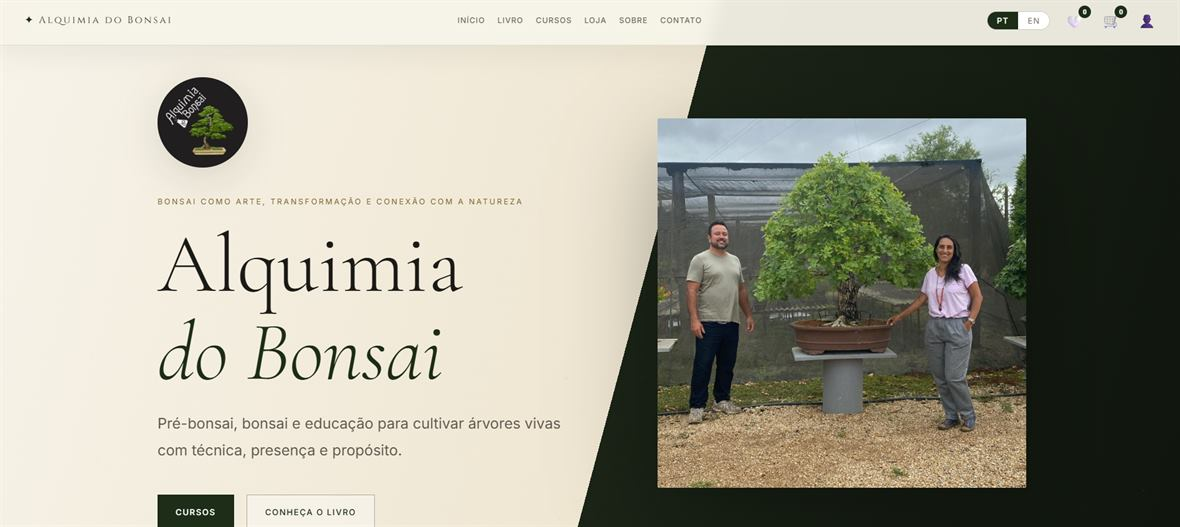
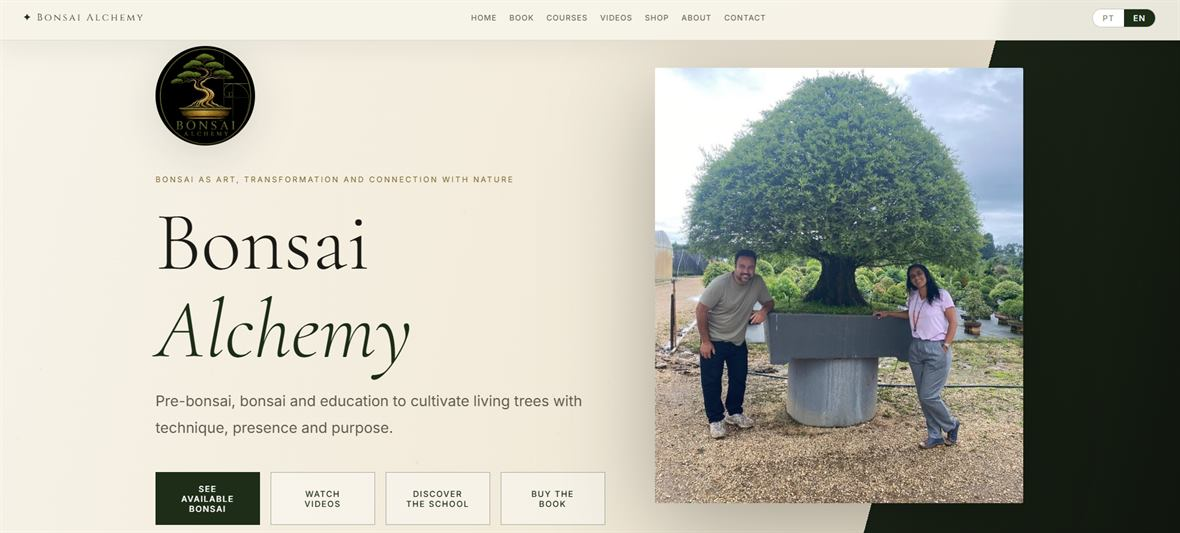
Atualiza copy e prints do case Alquimia

diff --git a/site/index.html b/site/index.html
@@ -401,9 +401,33 @@ h3 {
 }
 
 .case-image {
+  position: relative;
   overflow: hidden;
   border-radius: 24px;
   background: var(--paper);
+}
+
+.case-devices {
+  overflow: visible;
+  padding: 10px;
+  background: rgba(255, 250, 242, 0.1);
+}
+
+.case-devices picture {
+  display: block;
+  overflow: hidden;
+  border-radius: 18px;
+}
+
+.case-mobile {
+  position: absolute;
+  right: -18px;
+  bottom: -28px;
+  width: min(160px, 32%);
+  height: auto;
+  border: 8px solid #fffaf2;
+  border-radius: 24px;
+  box-shadow: 0 22px 48px rgba(0, 0, 0, 0.28);
 }
 
 .case-copy h2,
@@ -672,6 +696,18 @@ footer a {
     border-radius: 18px;
   }
 
+  .case-devices {
+    padding: 8px;
+  }
+
+  .case-mobile {
+    right: 10px;
+    bottom: -42px;
+    width: 34%;
+    border-width: 6px;
+    border-radius: 18px;
+  }
+
   .about,
   .contact {
     padding: 20px;
@@ -709,13 +745,13 @@ footer a {
       <section id="conteudo" class="hero wrap">
         <div class="hero-copy">
           <p class="eyebrow" data-i="hero-eyebrow">Desenvolvedor web</p>
-          <h1 data-i="hero-title">Eu crio sites profissionais para quem precisa aparecer melhor na internet.</h1>
-          <p class="lead" data-i="hero-text">Sou Luan Salles, desenvolvedor web em Niterói. Ajudo profissionais e pequenos negócios a terem um site bonito, organizado e fácil de acessar pelo celular.</p>
+          <h1 data-i="hero-title">Sites profissionais para apresentar seu negócio com clareza e gerar contatos.</h1>
+          <p class="lead" data-i="hero-text">Desenvolvimento de sites e landing pages para profissionais, pequenos negócios e marcas que precisam de uma presença online organizada, bonita e fácil de acessar pelo celular.</p>
           <div class="hero-actions">
-            <a class="btn btn-primary quote-link" href="https://forms.gle/ebQXBwmDUHUt6zwn7" target="_blank" rel="noreferrer" data-i="hero-primary">Quero um site</a>
-            <a class="btn btn-secondary" href="#projeto" data-i="hero-secondary">Ver um projeto</a>
+            <a class="btn btn-primary quote-link" href="https://forms.gle/ebQXBwmDUHUt6zwn7" target="_blank" rel="noreferrer" data-i="hero-primary">Solicitar orçamento</a>
+            <a class="btn btn-secondary" href="#projeto" data-i="hero-secondary">Ver projeto publicado</a>
           </div>
-          <p class="cta-note" data-i="hero-helper">Me chame com sua ideia. Eu te ajudo a entender o melhor formato.</p>
+          <p class="cta-note" data-i="hero-helper">Site para negócios · Landing pages · Ajustes em sites</p>
           <div class="hero-tags" aria-label="Serviços principais"><span>Site para negócios</span><span>Landing pages</span><span>Ajustes em sites</span></div>
         </div>
         <div class="hero-preview">
@@ -730,23 +766,24 @@ footer a {
         <div class="section-copy">
           <p class="eyebrow" data-i="services-eyebrow">Serviços</p>
           <h2 data-i="services-title">Sites para apresentar, vender e receber contatos</h2>
-          <p data-i="services-text">Eu construo páginas objetivas, com boa aparência, textos organizados e botões de contato no lugar certo.</p>
+          <p data-i="services-text">Páginas objetivas, com boa aparência, conteúdo bem organizado e botões de contato no lugar certo.</p>
         </div>
         <div class="service-list"><article class="service"><h3>Site para seu negócio</h3><p>Uma página completa para mostrar quem você é, o que oferece e como o cliente pode falar com você.</p></article><article class="service"><h3>Landing page</h3><p>Uma página direta para divulgar uma oferta, serviço, curso, evento ou campanha específica.</p></article><article class="service"><h3>Melhoria de site</h3><p>Para deixar um site atual mais bonito, mais organizado e melhor no celular.</p></article><a class="btn btn-secondary service-cta" href="#contato" data-i="services-cta">Falar sobre meu site</a></div>
       </section>
 
       <section id="projeto" class="section case-section">
         <div class="wrap case">
-          <div class="case-image">
+          <div class="case-image case-devices">
             <picture>
               <source srcset="alquimia-bonsai-760.jpg 760w, alquimia-bonsai-1180.jpg 1180w" sizes="(max-width: 900px) 100vw, 50vw" type="image/jpeg" />
               <img src="alquimia-bonsai-1180.jpg" alt="Site Alquimia do Bonsai em desktop" width="1180" height="737" loading="lazy" />
             </picture>
+            <img class="case-mobile" src="alquimia-bonsai-mobile.jpg" alt="Site Alquimia do Bonsai em celular" width="420" height="859" loading="lazy" />
           </div>
           <div class="case-copy">
             <p class="eyebrow" data-i="case-eyebrow">Projeto publicado</p>
             <h2 data-i="case-title">Alquimia do Bonsai</h2>
-            <p data-i="case-text">Esse é um site real, publicado e em uso. Ele apresenta a marca, o livro, os cursos, a loja, conteúdos educativos e os caminhos de contato da Alquimia do Bonsai.</p>
+            <p data-i="case-text">Site real, publicado e em uso para a marca Alquimia do Bonsai. O projeto apresenta a marca, o livro, os cursos, a loja, conteúdos educativos e canais de contato em português e inglês.</p>
             <ul><li class="">Funciona bem no computador e no celular</li><li class="">Tem versão em português e inglês</li><li class="">Organiza catálogo, favoritos e carrinho local</li><li class="">Direciona visitantes para WhatsApp, redes sociais e formulários</li></ul>
             <a class="btn btn-primary case-link" href="https://alquimiadobonsai.com" target="_blank" rel="noreferrer" data-i="case-button" aria-label="Abrir site (abre em nova aba)">Abrir site</a>
           </div>
@@ -758,21 +795,21 @@ footer a {
         <div>
           <p class="eyebrow" data-i="about-eyebrow">Sobre</p>
           <h2 data-i="about-title">Quem está por trás do projeto</h2>
-          <p data-i="about-text">Estudo Ciência da Computação e venho direcionando meu trabalho para criação de sites. Minha experiência com suporte técnico me ajuda a escutar o problema, organizar as informações e entregar algo que faça sentido para quem vai usar.</p>
+          <p data-i="about-text">Luan Salles é desenvolvedor web em Niterói, com formação em Ciência da Computação em andamento e experiência em suporte técnico. Atua na criação de sites responsivos, organização de conteúdo e publicação de páginas profissionais.</p>
           <div class="facts"><span>Niterói/RJ</span><span>Ciência da Computação</span><span>JavaScript e React</span><span>Sites responsivos</span></div>
         </div>
       </section>
 
       <section class="section wrap process">
         <h2 data-i="process-title">Como o projeto acontece</h2>
-        <div class="steps"><article class="step"><span>1</span><h3>Conversa inicial</h3><p>Você me conta o que precisa, mostra referências e envia os materiais que já tiver.</p></article><article class="step"><span>2</span><h3>Organização</h3><p>Eu defino as páginas, o conteúdo, o prazo e o valor antes de começar.</p></article><article class="step"><span>3</span><h3>Criação e publicação</h3><p>Eu desenvolvo o site, reviso com você e deixo tudo pronto para divulgar.</p></article></div>
+        <div class="steps"><article class="step"><span>1</span><h3>Conversa inicial</h3><p>Você conta o que precisa, mostra referências e envia os materiais que já tiver.</p></article><article class="step"><span>2</span><h3>Organização</h3><p>São definidos páginas, conteúdo, prazo, valor e o que precisa estar pronto antes do desenvolvimento.</p></article><article class="step"><span>3</span><h3>Criação e publicação</h3><p>O site é desenvolvido, revisado com você e preparado para divulgação.</p></article></div>
       </section>
 
       <section id="contato" class="section wrap contact">
         <div class="contact-copy">
           <p class="eyebrow" data-i="contact-eyebrow">Contato</p>
           <h2 data-i="contact-title">Quer criar ou melhorar seu site?</h2>
-          <p data-i="contact-text">Você pode me chamar direto no WhatsApp ou preencher o formulário com mais detalhes. Se ainda estiver no começo da ideia, tudo bem.</p>
+          <p data-i="contact-text">Entre em contato pelo WhatsApp ou preencha o formulário com mais detalhes. Se a ideia ainda estiver no começo, tudo bem: o primeiro passo é organizar o que faz sentido para o seu negócio.</p>
           <div class="contact-actions">
             <a class="btn btn-primary quote-link" href="https://forms.gle/ebQXBwmDUHUt6zwn7" target="_blank" rel="noreferrer" data-i="contact-form" aria-label="Preencher formulário (abre em nova aba)">Preencher formulário</a>
             <a class="btn btn-secondary contact-whatsapp" href="https://wa.me/5521979231817?text=Oi%2C%20Luan.%20Quero%20conversar%20sobre%20um%20site." target="_blank" rel="noreferrer" aria-label="WhatsApp (abre em nova aba)">WhatsApp</a>
@@ -796,7 +833,7 @@ footer a {
     </main>
 
     <script>
-      const i18n = {"pt":{"lang":"pt-BR","title":"Luan Salles | Desenvolvimento web para sites profissionais","description":"Desenvolvimento de sites institucionais e landing pages para profissionais, empresas e pequenos negócios.","nav":["Serviços","Projeto","Sobre","Contato"],"whatsapp":"WhatsApp","whatsappText":"Oi, Luan. Quero conversar sobre um site.","newTab":"abre em nova aba","status":"Idioma alterado para português.","hero":["Desenvolvedor web","Eu crio sites profissionais para quem precisa aparecer melhor na internet.","Sou Luan Salles, desenvolvedor web em Niterói. Ajudo profissionais e pequenos negócios a terem um site bonito, organizado e fácil de acessar pelo celular.","Quero um site","Ver um projeto","Me chame com sua ideia. Eu te ajudo a entender o melhor formato."],"highlights":["Site para negócios","Landing pages","Ajustes em sites"],"servicesTitle":"Sites para apresentar, vender e receber contatos","servicesText":"Eu construo páginas objetivas, com boa aparência, textos organizados e botões de contato no lugar certo.","servicesCta":"Falar sobre meu site","services":[["Site para seu negócio","Uma página completa para mostrar quem você é, o que oferece e como o cliente pode falar com você."],["Landing page","Uma página direta para divulgar uma oferta, serviço, curso, evento ou campanha específica."],["Melhoria de site","Para deixar um site atual mais bonito, mais organizado e melhor no celular."]],"case":["Projeto publicado","Alquimia do Bonsai","Esse é um site real, publicado e em uso. Ele apresenta a marca, o livro, os cursos, a loja, conteúdos educativos e os caminhos de contato da Alquimia do Bonsai.","Abrir site"],"caseBullets":["Funciona bem no computador e no celular","Tem versão em português e inglês","Organiza catálogo, favoritos e carrinho local","Direciona visitantes para WhatsApp, redes sociais e formulários"],"about":["Sobre","Quem está por trás do projeto","Estudo Ciência da Computação e venho direcionando meu trabalho para criação de sites. Minha experiência com suporte técnico me ajuda a escutar o problema, organizar as informações e entregar algo que faça sentido para quem vai usar."],"facts":["Niterói/RJ","Ciência da Computação","JavaScript e React","Sites responsivos"],"processTitle":"Como o projeto acontece","steps":[["1","Conversa inicial","Você me conta o que precisa, mostra referências e envia os materiais que já tiver."],["2","Organização","Eu defino as páginas, o conteúdo, o prazo e o valor antes de começar."],["3","Criação e publicação","Eu desenvolvo o site, reviso com você e deixo tudo pronto para divulgar."]],"contact":["Contato","Quer criar ou melhorar seu site?","Você pode me chamar direto no WhatsApp ou preencher o formulário com mais detalhes. Se ainda estiver no começo da ideia, tudo bem.","Preencher formulário","Enviar pelo WhatsApp","Oi, Luan. Quero conversar sobre um site.","Ao enviar, o WhatsApp abre com a mensagem pronta."],"labels":["Nome","Tipo de site","Mensagem"],"placeholders":["Seu nome","Ex.: site para clínica, landing page, loja local","Me conte o que você quer criar ou melhorar."],"fallbacks":["Não informado","Ainda não definido","Quero criar ou melhorar um site."],"footer":"Luan Salles · Desenvolvimento de sites"},"en":{"lang":"en","title":"Luan Salles | Web development for professional websites","description":"Business website and landing page development for professionals, companies, and small businesses.","nav":["Services","Project","About","Contact"],"whatsapp":"WhatsApp","whatsappText":"Hi, Luan. I want to talk about a website.","newTab":"opens in a new tab","status":"Language changed to English.","hero":["Web developer","I build professional websites for people who need a stronger online presence.","I am Luan Salles, a web developer based in Niterói, Brazil. I help professionals and small businesses create clean, organized websites that work well on mobile.","I need a website","View a project","Send me your idea. I can help you find the right format."],"highlights":["Business websites","Landing pages","Website updates"],"servicesTitle":"Websites to present your work, sell, and receive contacts","servicesText":"I build focused pages with a professional look, organized content, and contact buttons where they need to be.","servicesCta":"Talk about my website","services":[["Business website","A complete page to show who you are, what you offer, and how clients can reach you."],["Landing page","A direct page to promote an offer, service, course, event, or specific campaign."],["Website improvement","For making an existing website cleaner, better organized, and easier to use on mobile."]],"case":["Published project","Alquimia do Bonsai","This is a real website, published and in use. It presents the brand, book, courses, shop, educational content, and contact paths for Alquimia do Bonsai.","Open website"],"caseBullets":["Works well on desktop and mobile","Available in Portuguese and English","Organizes catalog, favorites, and local cart","Guides visitors to WhatsApp, social media, and forms"],"about":["About","Who is behind the project","I study Computer Science and I am focusing my work on website development. My technical support experience helps me listen to the problem, organize information, and deliver something that makes sense for real users."],"facts":["Niterói/RJ, Brazil","Computer Science","JavaScript and React","Responsive websites"],"processTitle":"How the project works","steps":[["1","First conversation","You tell me what you need, share references, and send any materials you already have."],["2","Planning","I define the pages, content, timeline, and price before starting."],["3","Build and publish","I develop the website, review it with you, and leave it ready to share."]],"contact":["Contact","Want to create or improve your website?","You can message me directly on WhatsApp or fill out the form with more details. If the idea is still early, that is fine.","Quote form","Send on WhatsApp","Hi, Luan. I want to talk about a website.","When you send it, WhatsApp opens with the message ready."],"labels":["Name","Website type","Message"],"placeholders":["Your name","Ex.: clinic website, landing page, local shop","Tell me what you want to create or improve."],"fallbacks":["Not provided","Not defined yet","I want to create or improve a website."],"footer":"Luan Salles · Website development"}};
+      const i18n = {"pt":{"lang":"pt-BR","title":"Luan Salles | Desenvolvimento web para sites profissionais","description":"Desenvolvimento de sites institucionais e landing pages para profissionais, empresas e pequenos negócios.","nav":["Serviços","Projeto","Sobre","Contato"],"whatsapp":"WhatsApp","whatsappText":"Oi, Luan. Quero conversar sobre um site.","newTab":"abre em nova aba","status":"Idioma alterado para português.","hero":["Desenvolvedor web","Sites profissionais para apresentar seu negócio com clareza e gerar contatos.","Desenvolvimento de sites e landing pages para profissionais, pequenos negócios e marcas que precisam de uma presença online organizada, bonita e fácil de acessar pelo celular.","Solicitar orçamento","Ver projeto publicado","Site para negócios · Landing pages · Ajustes em sites"],"highlights":["Site para negócios","Landing pages","Ajustes em sites"],"servicesTitle":"Sites para apresentar, vender e receber contatos","servicesText":"Páginas objetivas, com boa aparência, conteúdo bem organizado e botões de contato no lugar certo.","servicesCta":"Falar sobre meu site","services":[["Site para seu negócio","Uma página completa para mostrar quem você é, o que oferece e como o cliente pode falar com você."],["Landing page","Uma página direta para divulgar uma oferta, serviço, curso, evento ou campanha específica."],["Melhoria de site","Para deixar um site atual mais bonito, mais organizado e melhor no celular."]],"case":["Projeto publicado","Alquimia do Bonsai","Site real, publicado e em uso para a marca Alquimia do Bonsai. O projeto apresenta a marca, o livro, os cursos, a loja, conteúdos educativos e canais de contato em português e inglês.","Abrir site"],"caseBullets":["Funciona bem no computador e no celular","Tem versão em português e inglês","Organiza catálogo, favoritos e carrinho local","Direciona visitantes para WhatsApp, redes sociais e formulários"],"about":["Sobre","Quem está por trás do projeto","Luan Salles é desenvolvedor web em Niterói, com formação em Ciência da Computação em andamento e experiência em suporte técnico. Atua na criação de sites responsivos, organização de conteúdo e publicação de páginas profissionais."],"facts":["Niterói/RJ","Ciência da Computação","JavaScript e React","Sites responsivos"],"processTitle":"Como o projeto acontece","steps":[["1","Conversa inicial","Você conta o que precisa, mostra referências e envia os materiais que já tiver."],["2","Organização","São definidos páginas, conteúdo, prazo, valor e o que precisa estar pronto antes do desenvolvimento."],["3","Criação e publicação","O site é desenvolvido, revisado com você e preparado para divulgação."]],"contact":["Contato","Quer criar ou melhorar seu site?","Entre em contato pelo WhatsApp ou preencha o formulário com mais detalhes. Se a ideia ainda estiver no começo, tudo bem: o primeiro passo é organizar o que faz sentido para o seu negócio.","Preencher formulário","Enviar pelo WhatsApp","Oi, Luan. Quero conversar sobre um site.","Ao enviar, o WhatsApp abre com a mensagem pronta."],"labels":["Nome","Tipo de site","Mensagem"],"placeholders":["Seu nome","Ex.: site para clínica, landing page, loja local","Me conte o que você quer criar ou melhorar."],"fallbacks":["Não informado","Ainda não definido","Quero criar ou melhorar um site."],"footer":"Luan Salles · Desenvolvimento de sites"},"en":{"lang":"en","title":"Luan Salles | Web development for professional websites","description":"Business website and landing page development for professionals, companies, and small businesses.","nav":["Services","Project","About","Contact"],"whatsapp":"WhatsApp","whatsappText":"Hi, Luan. I want to talk about a website.","newTab":"opens in a new tab","status":"Language changed to English.","hero":["Web developer","I build professional websites for people who need a stronger online presence.","Website and landing page development for professionals, small businesses, and brands that need an organized, attractive online presence that works well on mobile.","Request a quote","View published project","Business websites · Landing pages · Website updates"],"highlights":["Business websites","Landing pages","Website updates"],"servicesTitle":"Websites to present your work, sell, and receive contacts","servicesText":"Focused pages with a professional look, organized content, and contact buttons where they need to be.","servicesCta":"Talk about my website","services":[["Business website","A complete page to show who you are, what you offer, and how clients can reach you."],["Landing page","A direct page to promote an offer, service, course, event, or specific campaign."],["Website improvement","For making an existing website cleaner, better organized, and easier to use on mobile."]],"case":["Published project","Alquimia do Bonsai","A real website, published and in use for Alquimia do Bonsai. The project presents the brand, book, courses, shop, educational content, and contact channels in Portuguese and English.","Open website"],"caseBullets":["Works well on desktop and mobile","Available in Portuguese and English","Organizes catalog, favorites, and local cart","Guides visitors to WhatsApp, social media, and forms"],"about":["About","Who is behind the project","Luan Salles is a web developer based in Niterói, Brazil, with Computer Science training in progress and experience in technical support. He works on responsive websites, content organization, and publishing professional pages."],"facts":["Niterói/RJ, Brazil","Computer Science","JavaScript and React","Responsive websites"],"processTitle":"How the project works","steps":[["1","First conversation","You explain what you need, share references, and send any materials you already have."],["2","Planning","Pages, content, timeline, price, and what needs to be ready before development are defined."],["3","Build and publish","The website is developed, reviewed with you, and prepared for sharing."]],"contact":["Contact","Want to create or improve your website?","Contact me on WhatsApp or fill out the form with more details. If the idea is still early, that is fine: the first step is organizing what makes sense for your business.","Quote form","Send on WhatsApp","Hi, Luan. I want to talk about a website.","When you send it, WhatsApp opens with the message ready."],"labels":["Name","Website type","Message"],"placeholders":["Your name","Ex.: clinic website, landing page, local shop","Tell me what you want to create or improve."],"fallbacks":["Not provided","Not defined yet","I want to create or improve a website."],"footer":"Luan Salles · Website development"}};
       const phone = "5521979231817";
 
       function setText(selector, value) {

diff --git a/app/page.tsx b/app/page.tsx
@@ -18,18 +18,18 @@ const copy = {
     status: "Idioma alterado para português.",
     hero: {
       eyebrow: "Desenvolvedor web",
-      title: "Eu crio sites profissionais para quem precisa aparecer melhor na internet.",
+      title: "Sites profissionais para apresentar seu negócio com clareza e gerar contatos.",
       text:
-        "Sou Luan Salles, desenvolvedor web em Niterói. Ajudo profissionais e pequenos negócios a terem um site bonito, organizado e fácil de acessar pelo celular.",
-      primary: "Quero um site",
-      secondary: "Ver um projeto",
-      helper: "Me chame com sua ideia. Eu te ajudo a entender o melhor formato.",
+        "Desenvolvimento de sites e landing pages para profissionais, pequenos negócios e marcas que precisam de uma presença online organizada, bonita e fácil de acessar pelo celular.",
+      primary: "Solicitar orçamento",
+      secondary: "Ver projeto publicado",
+      helper: "Site para negócios · Landing pages · Ajustes em sites",
     },
     highlights: ["Site para negócios", "Landing pages", "Ajustes em sites"],
     services: {
       title: "Sites para apresentar, vender e receber contatos",
       text:
-        "Eu construo páginas objetivas, com boa aparência, textos organizados e botões de contato no lugar certo.",
+        "Páginas objetivas, com boa aparência, conteúdo bem organizado e botões de contato no lugar certo.",
       cta: "Falar sobre meu site",
       items: [
         {
@@ -53,7 +53,7 @@ const copy = {
       eyebrow: "Projeto publicado",
       title: "Alquimia do Bonsai",
       text:
-        "Esse é um site real, publicado e em uso. Ele apresenta a marca, o livro, os cursos, a loja, conteúdos educativos e os caminhos de contato da Alquimia do Bonsai.",
+        "Site real, publicado e em uso para a marca Alquimia do Bonsai. O projeto apresenta a marca, o livro, os cursos, a loja, conteúdos educativos e canais de contato em português e inglês.",
       bullets: [
         "Funciona bem no computador e no celular",
         "Tem versão em português e inglês",
@@ -66,22 +66,22 @@ const copy = {
       eyebrow: "Sobre",
       title: "Quem está por trás do projeto",
       text:
-        "Estudo Ciência da Computação e venho direcionando meu trabalho para criação de sites. Minha experiência com suporte técnico me ajuda a escutar o problema, organizar as informações e entregar algo que faça sentido para quem vai usar.",
+        "Luan Salles é desenvolvedor web em Niterói, com formação em Ciência da Computação em andamento e experiência em suporte técnico. Atua na criação de sites responsivos, organização de conteúdo e publicação de páginas profissionais.",
       facts: ["Niterói/RJ", "Ciência da Computação", "JavaScript e React", "Sites responsivos"],
     },
     process: {
       title: "Como o projeto acontece",
       steps: [
-        ["1", "Conversa inicial", "Você me conta o que precisa, mostra referências e envia os materiais que já tiver."],
-        ["2", "Organização", "Eu defino as páginas, o conteúdo, o prazo e o valor antes de começar."],
-        ["3", "Criação e publicação", "Eu desenvolvo o site, reviso com você e deixo tudo pronto para divulgar."],
+        ["1", "Conversa inicial", "Você conta o que precisa, mostra referências e envia os materiais que já tiver."],
+        ["2", "Organização", "São definidos páginas, conteúdo, prazo, valor e o que precisa estar pronto antes do desenvolvimento."],
+        ["3", "Criação e publicação", "O site é desenvolvido, revisado com você e preparado para divulgação."],
       ],
     },
     contact: {
       eyebrow: "Contato",
       title: "Quer criar ou melhorar seu site?",
       text:
-        "Você pode me chamar direto no WhatsApp ou preencher o formulário com mais detalhes. Se ainda estiver no começo da ideia, tudo bem.",
+        "Entre em contato pelo WhatsApp ou preencha o formulário com mais detalhes. Se a ideia ainda estiver no começo, tudo bem: o primeiro passo é organizar o que faz sentido para o seu negócio.",
       formButton: "Preencher formulário",
       labels: ["Nome", "Tipo de site", "Mensagem"],
       placeholders: [
@@ -107,16 +107,16 @@ const copy = {
       eyebrow: "Web developer",
       title: "I build professional websites for people who need a stronger online presence.",
       text:
-        "I am Luan Salles, a web developer based in Niterói, Brazil. I help professionals and small businesses create clean, organized websites that work well on mobile.",
-      primary: "I need a website",
-      secondary: "View a project",
-      helper: "Send me your idea. I can help you find the right format.",
+        "Website and landing page development for professionals, small businesses, and brands that need an organized, attractive online presence that works well on mobile.",
+      primary: "Request a quote",
+      secondary: "View published project",
+      helper: "Business websites · Landing pages · Website updates",
     },
     highlights: ["Business websites", "Landing pages", "Website updates"],
     services: {
       title: "Websites to present your work, sell, and receive contacts",
       text:
-        "I build focused pages with a professional look, organized content, and contact buttons where they need to be.",
+        "Focused pages with a professional look, organized content, and contact buttons where they need to be.",
       cta: "Talk about my website",
       items: [
         {
@@ -139,7 +139,7 @@ const copy = {
       eyebrow: "Published project",
       title: "Alquimia do Bonsai",
       text:
-        "This is a real website, published and in use. It presents the brand, book, courses, shop, educational content, and contact paths for Alquimia do Bonsai.",
+        "A real website, published and in use for Alquimia do Bonsai. The project presents the brand, book, courses, shop, educational content, and contact channels in Portuguese and English.",
       bullets: [
         "Works well on desktop and mobile",
         "Available in Portuguese and English",
@@ -152,22 +152,22 @@ const copy = {
       eyebrow: "About",
       title: "Who is behind the project",
       text:
-        "I study Computer Science and I am focusing my work on website development. My technical support experience helps me listen to the problem, organize information, and deliver something that makes sense for real users.",
+        "Luan Salles is a web developer based in Niterói, Brazil, with Computer Science training in progress and experience in technical support. He works on responsive websites, content organization, and publishing professional pages.",
       facts: ["Niterói/RJ, Brazil", "Computer Science", "JavaScript and React", "Responsive websites"],
     },
     process: {
       title: "How the project works",
       steps: [
-        ["1", "First conversation", "You tell me what you need, share references, and send any materials you already have."],
-        ["2", "Planning", "I define the pages, content, timeline, and price before starting."],
-        ["3", "Build and publish", "I develop the website, review it with you, and leave it ready to share."],
+        ["1", "First conversation", "You explain what you need, share references, and send any materials you already have."],
+        ["2", "Planning", "Pages, content, timeline, price, and what needs to be ready before development are defined."],
+        ["3", "Build and publish", "The website is developed, reviewed with you, and prepared for sharing."],
       ],
     },
     contact: {
       eyebrow: "Contact",
       title: "Want to create or improve your website?",
       text:
-        "You can message me directly on WhatsApp or fill out the form with more details. If the idea is still early, that is fine.",
+        "Contact me on WhatsApp or fill out the form with more details. If the idea is still early, that is fine: the first step is organizing what makes sense for your business.",
       formButton: "Quote form",
       labels: ["Name", "Website type", "Message"],
       placeholders: ["Your name", "Ex.: clinic website, landing page, local shop", "Tell me what you want to create or improve."],
@@ -304,7 +304,7 @@ export default function Home() {
 
       <section id="projeto" className="section case-section">
         <div className="wrap case">
-          <div className="case-image">
+          <div className="case-image case-devices">
             <picture>
               <source
                 srcSet="/alquimia-bonsai-760.jpg 760w, /alquimia-bonsai-1180.jpg 1180w"
@@ -319,6 +319,14 @@ export default function Home() {
                 loading="lazy"
               />
             </picture>
+            <img
+              className="case-mobile"
+              src="/alquimia-bonsai-mobile.jpg"
+              alt="Site Alquimia do Bonsai em celular"
+              width="420"
+              height="859"
+              loading="lazy"
+            />
           </div>
           <div className="case-copy">
             <p className="eyebrow">{t.case.eyebrow}</p>

diff --git a/app/globals.css b/app/globals.css
@@ -377,9 +377,33 @@ h3 {
 }
 
 .case-image {
+  position: relative;
   overflow: hidden;
   border-radius: 24px;
   background: var(--paper);
+}
+
+.case-devices {
+  overflow: visible;
+  padding: 10px;
+  background: rgba(255, 250, 242, 0.1);
+}
+
+.case-devices picture {
+  display: block;
+  overflow: hidden;
+  border-radius: 18px;
+}
+
+.case-mobile {
+  position: absolute;
+  right: -18px;
+  bottom: -28px;
+  width: min(160px, 32%);
+  height: auto;
+  border: 8px solid #fffaf2;
+  border-radius: 24px;
+  box-shadow: 0 22px 48px rgba(0, 0, 0, 0.28);
 }
 
 .case-copy h2,
@@ -645,6 +669,18 @@ footer a {
 
   .hero-preview,
   .case-image {
+    border-radius: 18px;
+  }
+
+  .case-devices {
+    padding: 8px;
+  }
+
+  .case-mobile {
+    right: 10px;
+    bottom: -42px;
+    width: 34%;
+    border-width: 6px;
     border-radius: 18px;
   }
 
